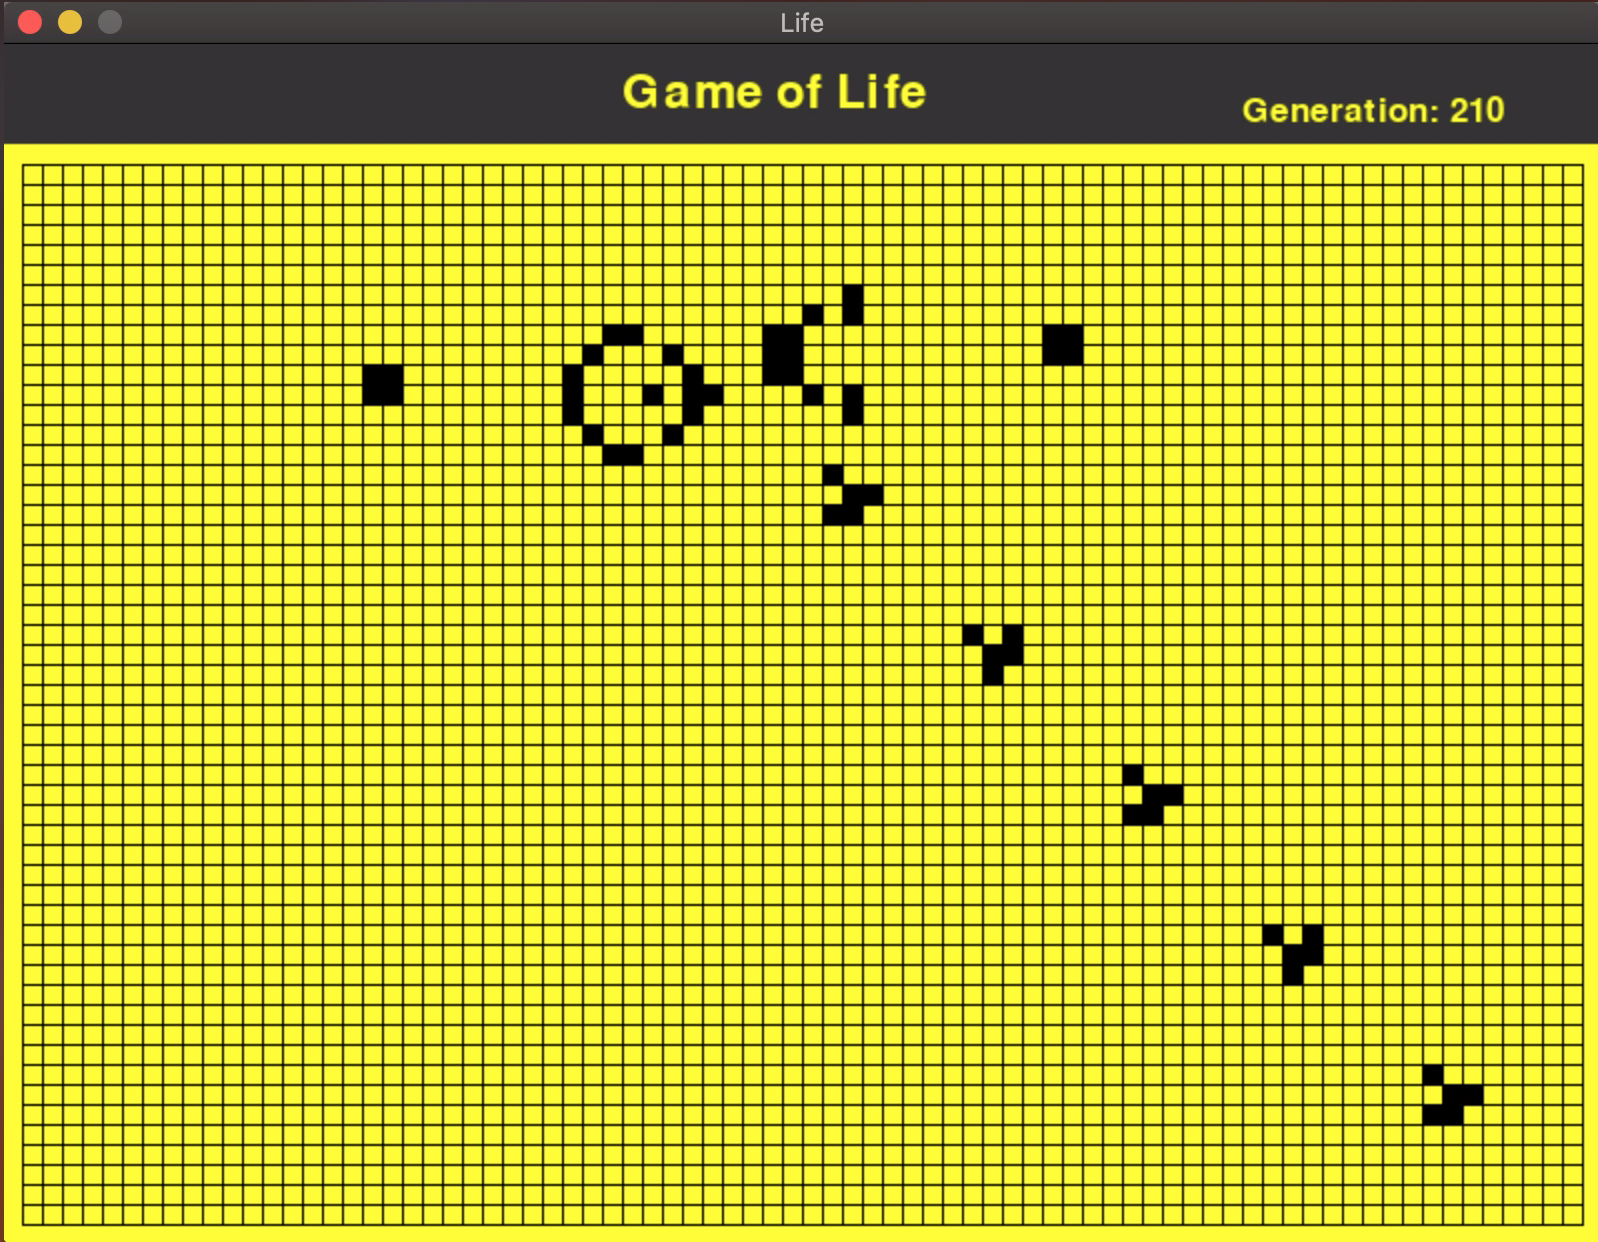
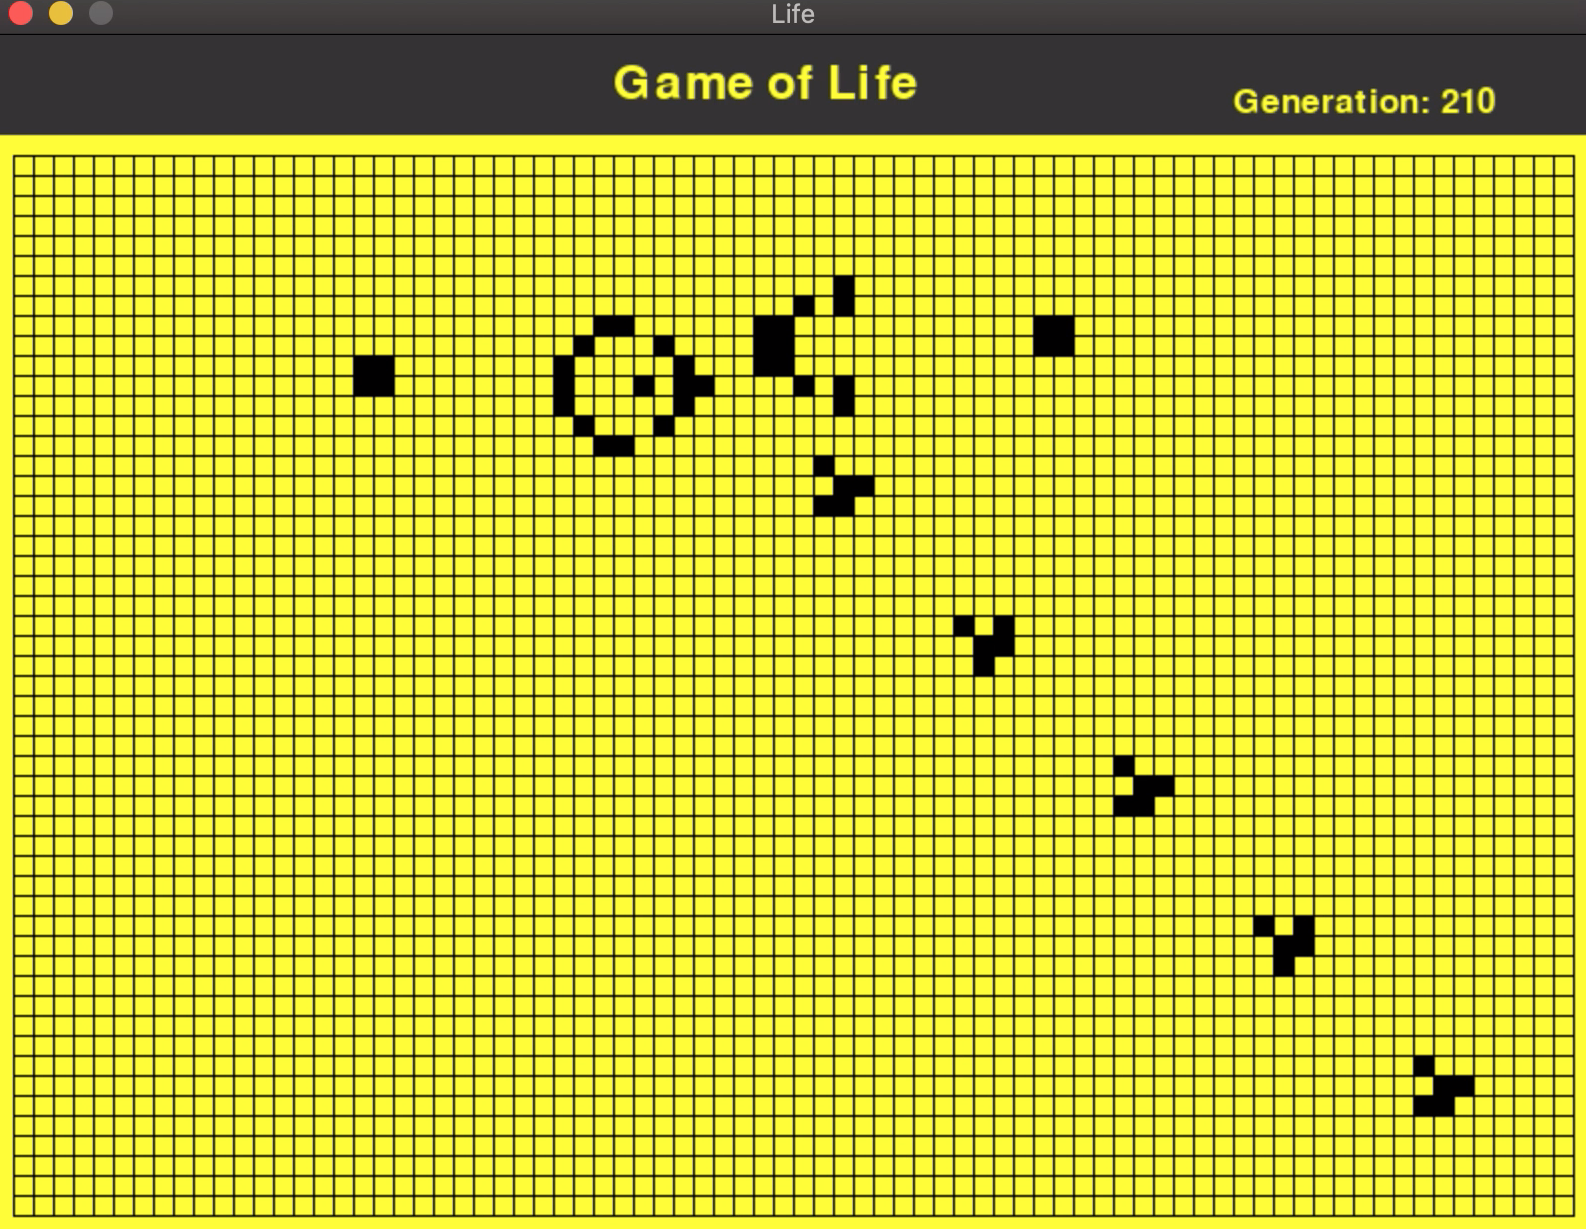
Readme

diff --git a/README.md b/README.md
@@ -18,12 +18,12 @@ At each step in time, the following transitions occur:
 Two game modes are available:
 
 ### Random Seed
-<img src="https://github.com/Drakmord2/life/blob/master/assets/images/random-seed.png" width="480" height="480" />
+<img src="https://github.com/Drakmord2/life/blob/master/assets/images/random-seed.png" width="480" />
 
 - Start the game with a random initial configuration.
 
 ### Patterns
-<img src="https://github.com/Drakmord2/life/blob/master/assets/images/life.png" width="480" height="480" />
+<img src="https://github.com/Drakmord2/life/blob/master/assets/images/life.png" width="480" />
 
 - User-defined patterns
 
